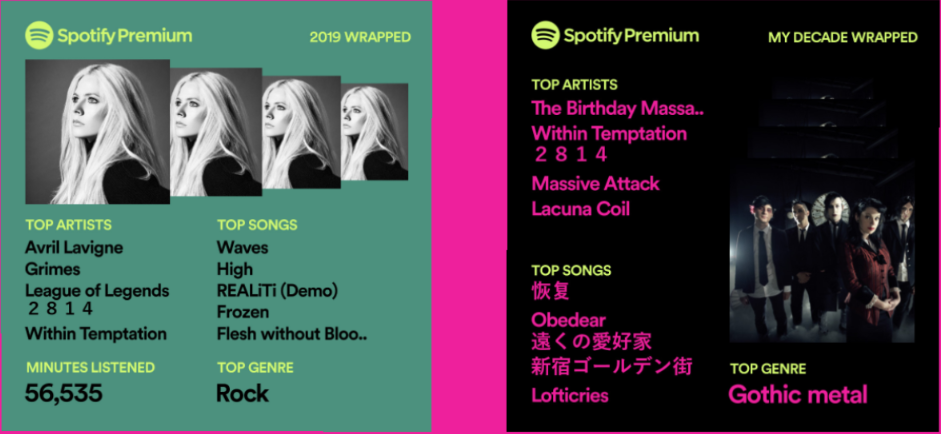
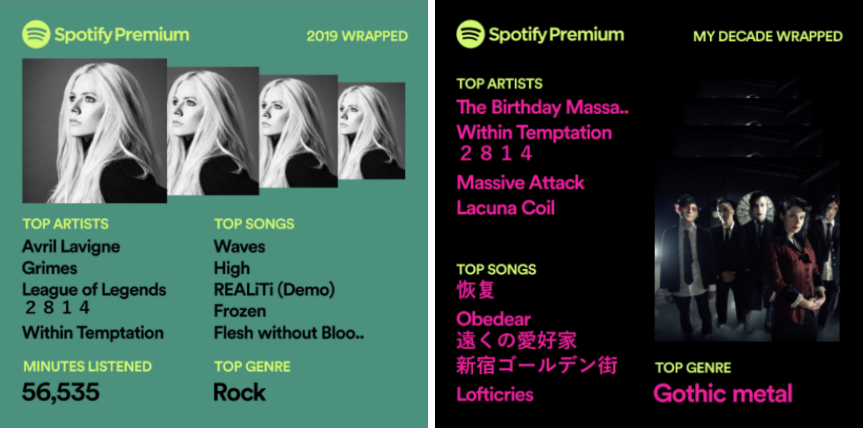
:sparkles: improve images used in blog post
Updates the blog post to wrap images with a figure element.
Adds links to the images so that the readers can click the
images to open the full image in a new tab.

This commit also includes an updated Spotify Wrapped 2019
image, which has been cropped nicely to remove the rough
edges and pink background :sparkles:

diff --git a/blog/weekly-phix/issue1-191223.php b/blog/weekly-phix/issue1-191223.php
@@ -40,7 +40,9 @@
         <div class="cell">
           <h3 class="h4">Spotify Wrapped</h3>
 
-          <p style="text-align:center;"><img style="width:70%; height:65%;" src="<?php echo $config['paths']['static']; ?>/blog/image-uploads/weekly-phix/spotify_wrapped_2019.PNG" alt="My Spotify Wrapped 2019" /></p>
+          <figure style="text-align:center;">
+            <a href="<?php echo $config['paths']['static']; ?>/blog/image-uploads/weekly-phix/spotify_wrapped_2019.PNG" target="_blank"><img class="thumbnail" style="width:70%; height:65%;" src="<?php echo $config['paths']['static']; ?>/blog/image-uploads/weekly-phix/spotify_wrapped_2019.PNG" alt="My Spotify Wrapped 2019" /></a>
+          </figure>
 
           <p>Every year, Spotify users are blessed with statistics about the music they listened to throughout the year. This year's Spotify Wrapped also included stats for the 2010s decade, which was a nice treat. My Spotify Wrapped was not too surprising to me. I listen to a wide variety of music, but there's a few genres that I love: symphonic metal, gothic metal and alternative rock.<p>
 
@@ -64,13 +66,18 @@
 
           <p>First Keanu Reeves and then Grimes... this game is truly going to be breathtaking. It's impressive how CD Projekt Red kept both of these announcements from being leaked. Although, I had gotten a strange notification on my Twitter about Grimes liking a particular tweet a few days prior to the announcement. Still, I did not expect her to actually write a song for the game.</p>
 
-          <p style="text-align: center;"><img src="<?php echo $config['paths']['static']; ?>/blog/image-uploads/weekly-phix/grimes_cyberpunk_tweet.PNG" alt="Grimes likes a tweet from the Cyberpunk 2077 Twitter account" /></p>
+          <figure style="text-align: center;">
+            <a href="<?php echo $config['paths']['static']; ?>/blog/image-uploads/weekly-phix/grimes_cyberpunk_tweet.PNG" target="_blank"><img class="thumbnail" src="<?php echo $config['paths']['static']; ?>/blog/image-uploads/weekly-phix/grimes_cyberpunk_tweet.PNG" alt="Grimes likes a tweet from the Cyberpunk 2077 Twitter account" /></a>
+            <figcaption><em>Grimes liked a tweet from the Cyberpunk 2077 Twitter account</em></figcaption>
+          </figure>
         </div> <!-- .cell -->
 
         <div class="cell">
           <h3 class="h4">Sneaky Bacon Enters Alpha Stage</h3>
           
-          <p style="text-align:center;"><img style="width:70%; height:70%;" src="<?php echo $config['paths']['static']; ?>/blog/image-uploads/weekly-phix/sneaky_bacon_main_menu.PNG" alt="Sneaky Bacon Main Menu Screen" /></p>
+          <figure style="text-align:center;">
+            <a href="<?php echo $config['paths']['static']; ?>/blog/image-uploads/weekly-phix/sneaky_bacon_main_menu.PNG" target="_blank"><img class="thumbnail" style="width:70%; height:70%;" src="<?php echo $config['paths']['static']; ?>/blog/image-uploads/weekly-phix/sneaky_bacon_main_menu.PNG" alt="Sneaky Bacon Main Menu Screen" /></a>
+          </figure>
 
           <p>For my final year group project, we are developing a fun third person stealth/puzzle-like game. It draws some inspiration from games like the Untitled Goose Game. The game is being developed in Unity and I am one of the gameplay programmers. I am working in C# and have been focusing on enemy AI programming and the tutorial level gameplay. More information about the project will be added to this website soon.</p>
 
